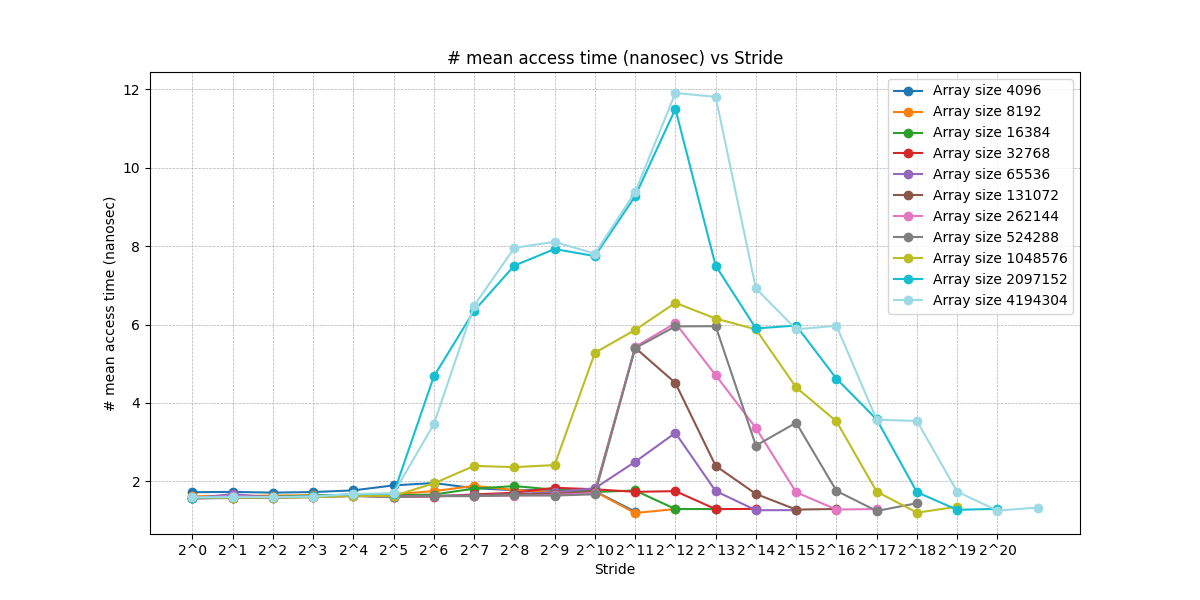
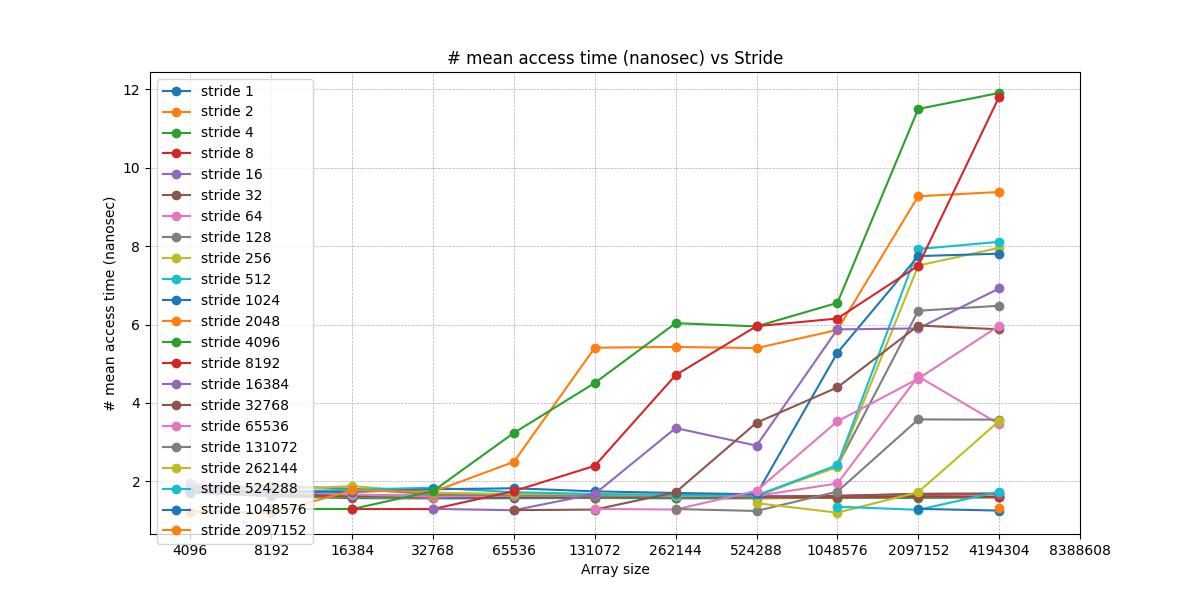
bug mental

Changed region(s): [[0.1233, 0.12, 0.925, 0.96], [0.37, 0.33, 0.5242, 0.6], [0.5242, 0.15, 0.6167, 0.36]]

diff --git a/proj1/medicoes/ex2/to_plot_all_data.py b/proj1/medicoes/ex2/to_plot_all_data.py
@@ -1,8 +1,7 @@
 import os
 import pandas as pd
-import matplotlib.pyplot as plt
 import numpy as np
-import matplotlib.cm as cm
+import matplotlib.pyplot as plt
 
 script_dir = os.path.dirname(os.path.abspath(__file__))
 excel_path = os.path.join(script_dir, "all_data.xlsx")
@@ -11,40 +10,30 @@ df = pd.read_excel(excel_path)
 
 df["array size"] = pd.to_numeric(df["array size"])
 df["stride"] = pd.to_numeric(df["stride"])
-df["# mean access time (nanosec)"] = pd.to_numeric(df["# mean access time (nanosec)"])
+df["# mean access time (nanosec)"] = pd.to_numeric(df["# mean access time (nanosec)"])     
 
 plt.figure(figsize=(12, 6))
 
-unique_sizes = df["array size"].unique()
-cmap = plt.colormaps.get_cmap("tab20")   # só o nome
-colors = [cmap(i) for i in np.linspace(0, 1, len(unique_sizes))]
-
-for i,arraySize in enumerate(unique_sizes):
-    subset = df[df["array size"] == arraySize]
-    
+for stride in df["stride"].unique():
+    subset = df[df["stride"] == stride]
     plt.plot(
-        subset["stride"], 
+        subset["array size"],
         subset["# mean access time (nanosec)"],
-        marker='o', 
-        color=colors[i], 
-        label=f"Array size {arraySize}"
+        marker='o',
+        label=f"stride {stride}",
     )
-
+    
 plt.title("# mean access time (nanosec) vs Stride")
-plt.xlabel("Stride")
+plt.xlabel("Array size")
 plt.ylabel("# mean access time (nanosec)")
 
-# Customize X-axis: 2^0 → 2^20 with steps 2^x
-x_ticks = [2**i for i in range(21)]
+x_ticks = [2**i for i in range(12,24)]
 plt.xscale("log", base=2)
-plt.xticks(x_ticks, [f"2^{i}" for i in range(21)])
-
+plt.xticks(x_ticks, [f"{2**i}" for i in range(12,24)])
 plt.grid(True, which="both", linestyle="--", linewidth=0.5)
 plt.legend()
 
 plot_path = os.path.join(script_dir, "plot-allstrides.png")
 plt.savefig(plot_path)
 plt.show()
-
 print(f"Plot saved as: {plot_path}")
-
